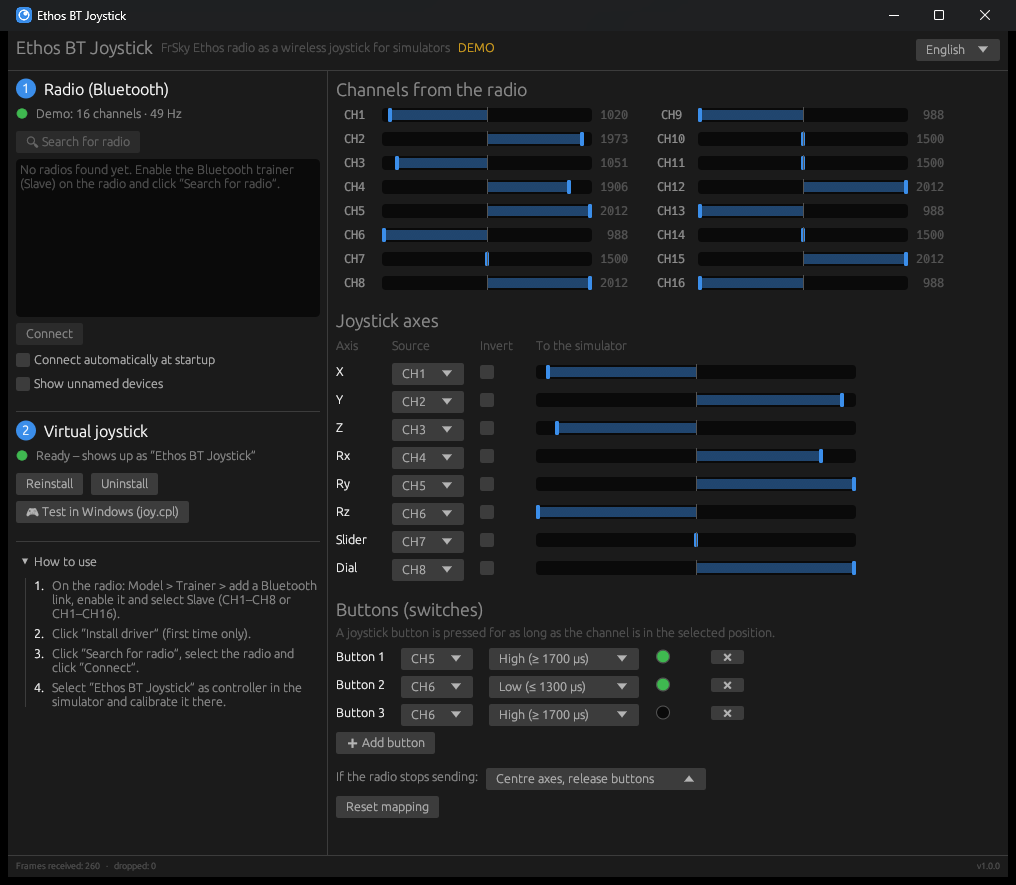
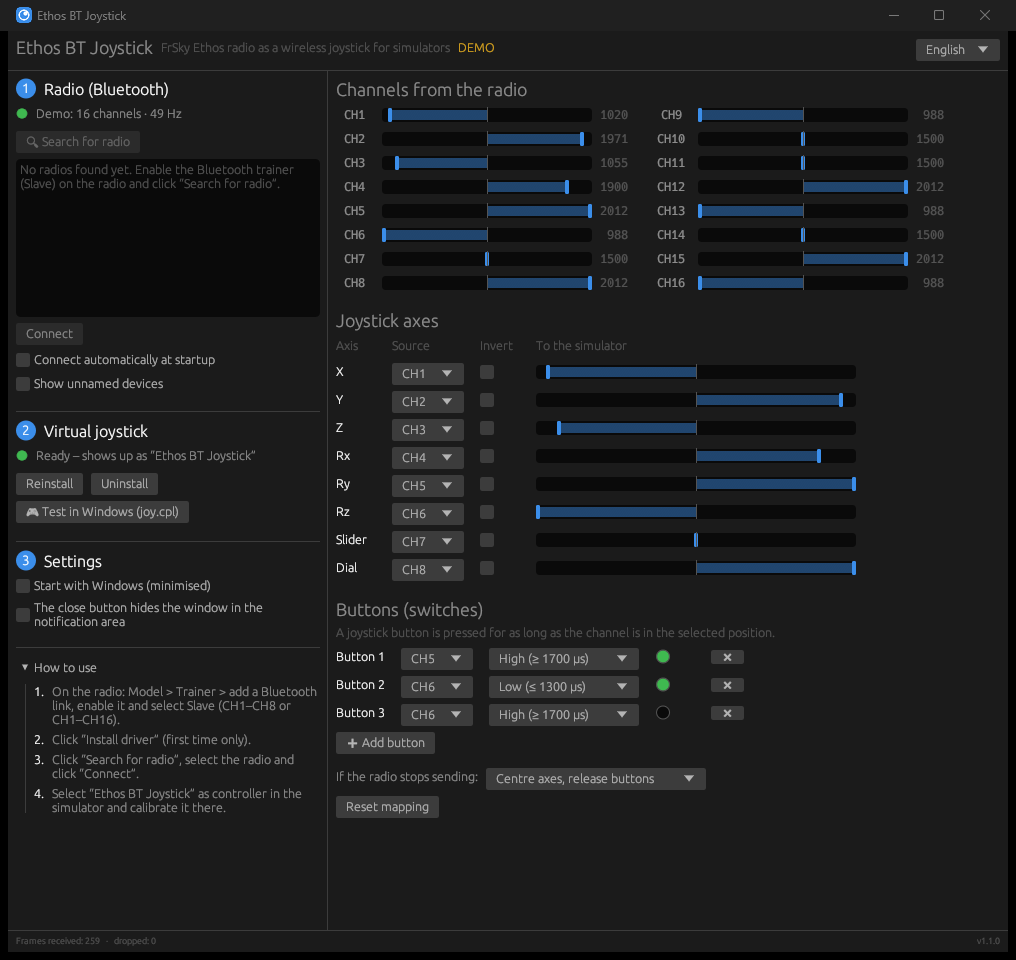
Docs: 1.1.0 screenshots; joycheck --read
- New English and Norwegian screenshots showing the settings section.
- joycheck --read prints the joystick's current state (used to check
  that the driver's watchdog centres the joystick after the app is
  killed).

diff --git a/app/examples/joycheck.rs b/app/examples/joycheck.rs
@@ -9,6 +9,7 @@
 //! Close the app first - its keep-alive would defeat the watchdog test.
 //!
 //!     cargo run --example joycheck
+//!     cargo run --example joycheck -- --read     (only print the current state)
 
 use std::time::{Duration, Instant};
 
@@ -17,6 +18,18 @@ use ethos_bt_joystick::joystick::{
 };
 
 fn main() {
+    // `--read`: only print what the joystick reports right now
+    if std::env::args().any(|arg| arg == "--read") {
+        match read_joystick_state() {
+            Ok(state) => {
+                let neutral = if state == JoyState::NEUTRAL { "neutral" } else { "NOT neutral" };
+                println!("{neutral}: axes {:?}  buttons {:#010x}", state.axes, state.buttons);
+            }
+            Err(error) => fail(&format!("cannot read the joystick: {error}")),
+        }
+        return;
+    }
+
     println!("device node:    {:?}", driver_status());
 
     let before = match read_joystick_state() {
